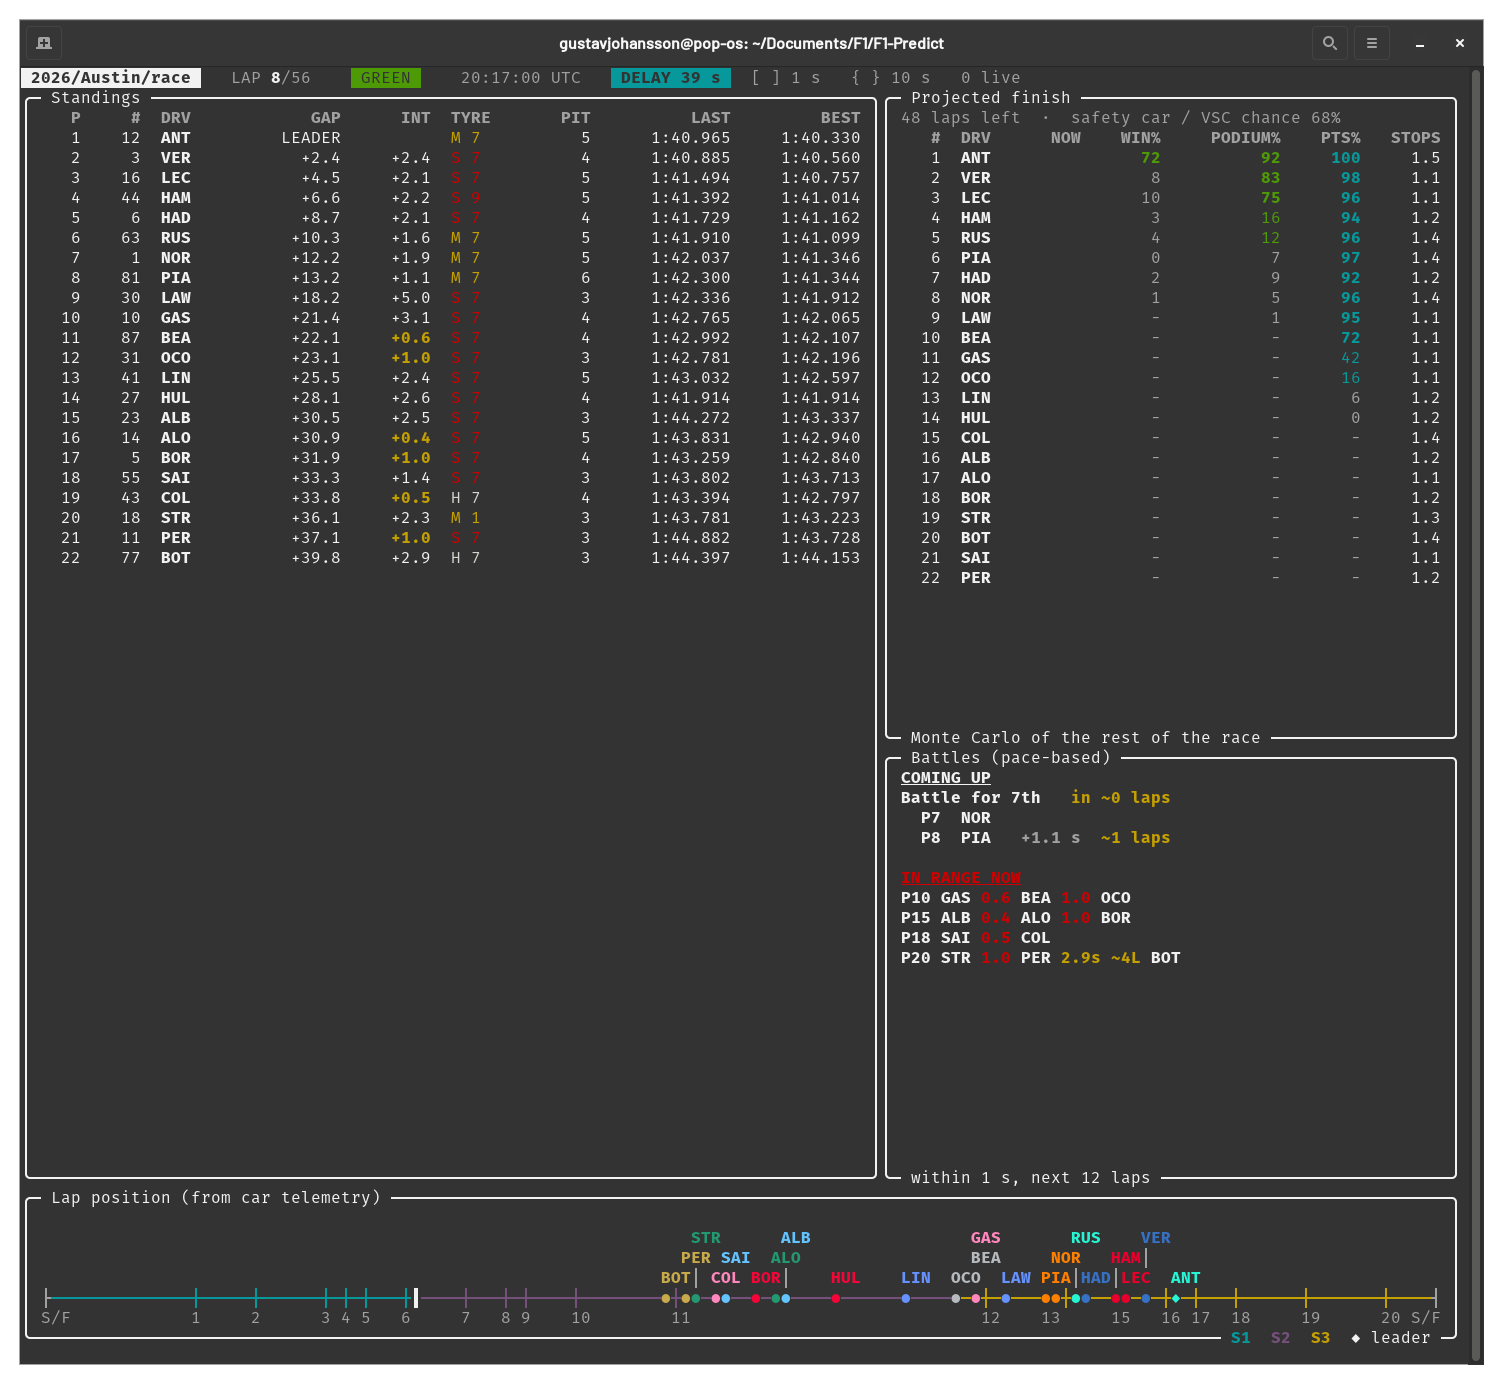
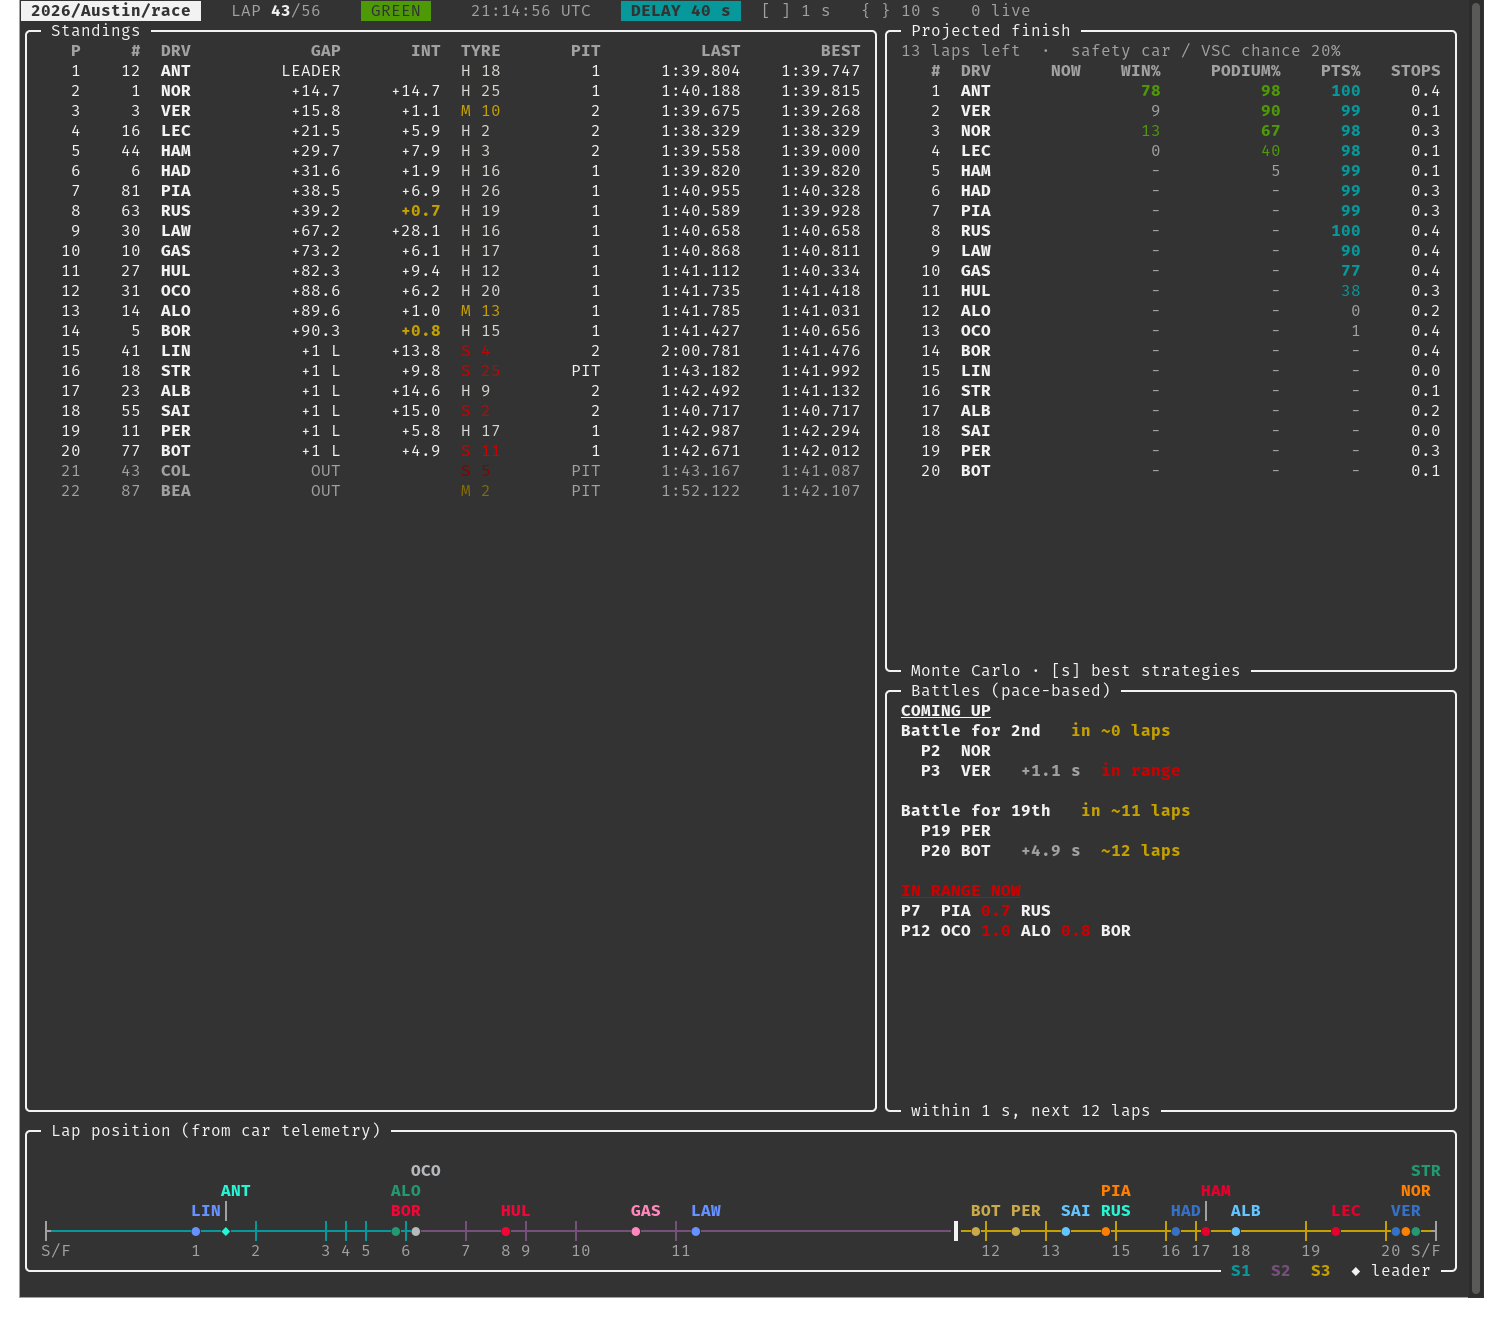
Crop the dashboard screenshot and set the terminal window title

diff --git a/live/race/watch.py b/live/race/watch.py
@@ -537,6 +537,11 @@ def adjust_delay(delay, key, maximum=Feed.TRAIL_S):
     return min(max(delay + STEPS.get(key, 0.0), 0.0), float(maximum))
 
 
+def window_title(sess, custom=None):
+    """The terminal window's title: what you asked for with --title, else the session."""
+    return custom or f"F1 race dashboard · {sess}"
+
+
 def delay_file(data_dir):
     return Path(data_dir) / ".watch_delay"
 
@@ -591,6 +596,7 @@ def main():
     ap.add_argument("--delay", type=float, help="show the race as it was this many seconds ago, to match a delayed broadcast "
                                                  "(default: what you used last time)")
     ap.add_argument("--once", action="store_true", help="print one frame and exit")
+    ap.add_argument("--title", help="title of the terminal window (default: 'F1 race dashboard · <session>')")
     ap.add_argument("--view", choices=["usual", "optimal"], default="usual",
                     help="start with the projection (usual) or the finish with every driver on his best strategy (optimal); "
                          "the key s switches")
@@ -615,6 +621,7 @@ def main():
                       else Text(f"{sess}: no events yet"))
         return
     console = Console()
+    console.set_window_title(window_title(sess, args.title))          # restored by your shell's prompt when you quit
     stamp, drawn_at, drawn_delay, last_good = None, None, None, None
     error_log = Path(sess.data_dir) / ".watch_error.log"
     from rich.live import Live

diff --git a/f1live/watch.py b/f1live/watch.py
@@ -60,12 +60,14 @@ def main(render, description):
     add_session_args(ap)
     ap.add_argument("--interval", type=float, default=0.5, help="seconds between checks")
     ap.add_argument("--once", action="store_true", help="print the current state once and exit")
+    ap.add_argument("--title", help="title of the terminal window (default: 'F1 predictions · <session>')")
     args = ap.parse_args()
     sess = session_from_args(args)
 
     if args.once or not sys.stdout.isatty():
         print(screen(str(sess), read(sess.predictions), render))
         return
+    sys.stdout.write(f"\033]0;{args.title or f'F1 predictions · {sess}'}\007")        # the terminal window's title
     seen = None
     try:
         while True:

diff --git a/tests/test_delay.py b/tests/test_delay.py
@@ -126,3 +126,9 @@ def test_a_drawing_error_shows_a_banner_over_the_last_good_frame_instead_of_endi
     assert "AttributeError" in log.read_text() and "Traceback" in log.read_text()
     shown2, _ = watch.safe_frame(broken, None, tmp_path / "missing" / "x.log")     # even an unwritable log is no reason to die
     assert shown2 is not None
+
+
+def test_the_window_title_is_the_session_unless_you_choose_one():
+    sess = Session("2026", "Austin", "race")
+    assert watch.window_title(sess) == "F1 race dashboard · 2026/Austin/race"
+    assert watch.window_title(sess, "US GP live") == "US GP live"

diff --git a/README.md b/README.md
@@ -10,7 +10,7 @@ record (FastF1)  ->  raw.txt  ->  f1live.parse  ->  events.csv  ->  f1live.runne
   <img src="docs/race-view-live.png" alt="The race dashboard during the 2026 US Grand Prix" width="900">
 </p>
 
-The race dashboard (`python -m live.race.watch`) during the 2026 US Grand Prix, on lap 8 and shown 39 s behind the live timing to
+The race dashboard (`python -m live.race.watch`) during the 2026 US Grand Prix, on lap 43 and shown 40 s behind the live timing to
 match a delayed broadcast. Top left: the live standings with gaps, intervals, tyres and lap times (yellow intervals are within
 1 s). Top right: the projected finish, a Monte Carlo of the rest of the race with each driver's chance of a win, a podium and
 points; below it the predicted battles (coming up and already in range). Bottom: the lap-position line, with every car's dot
@@ -98,6 +98,9 @@ is running, `]` / `[` add and take off 1 s, `}` / `{` 10 s and `0` goes back to 
 car cross the line on TV and press the keys until the lap counter (or the car's dot) on the screen moves at the same moment. The
 delay is remembered between runs (`data/.watch_delay`; an explicit `--delay` overrides it), can be 0-300 s, and only changes what is
 shown: the recording, parser and runner stay live. Until the first data of that age exists the screen says so.
+
+The dashboard sets the terminal window's title to `F1 race dashboard · <session>` (`F1 predictions · <session>` for the qualifying
+viewer); `--title "US GP live"` picks your own. Most terminals restore the old title when your shell prompt comes back.
 
 **Battle prediction** (`live/race/battles.py`): a driver's pace is the median of the last 4 clean racing laps on the
 current stint (no in/out laps, green flag only, not lap 1-2); with fewer than 3 clean laps there is no pace and the model
